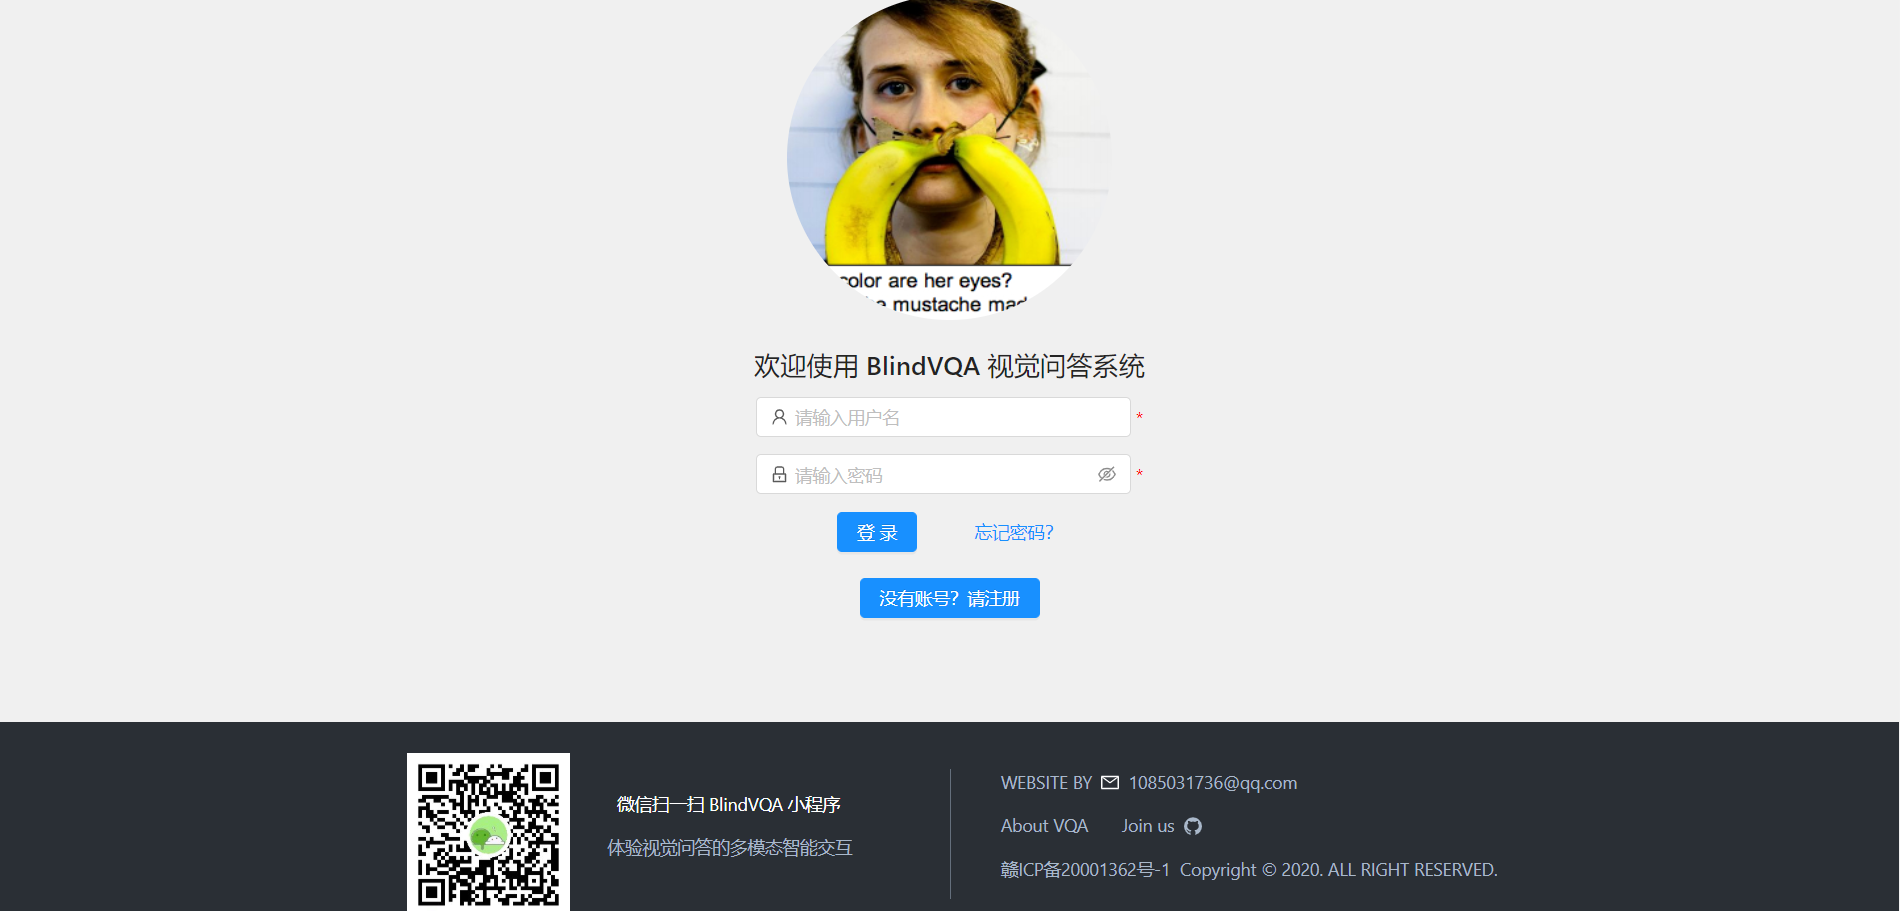
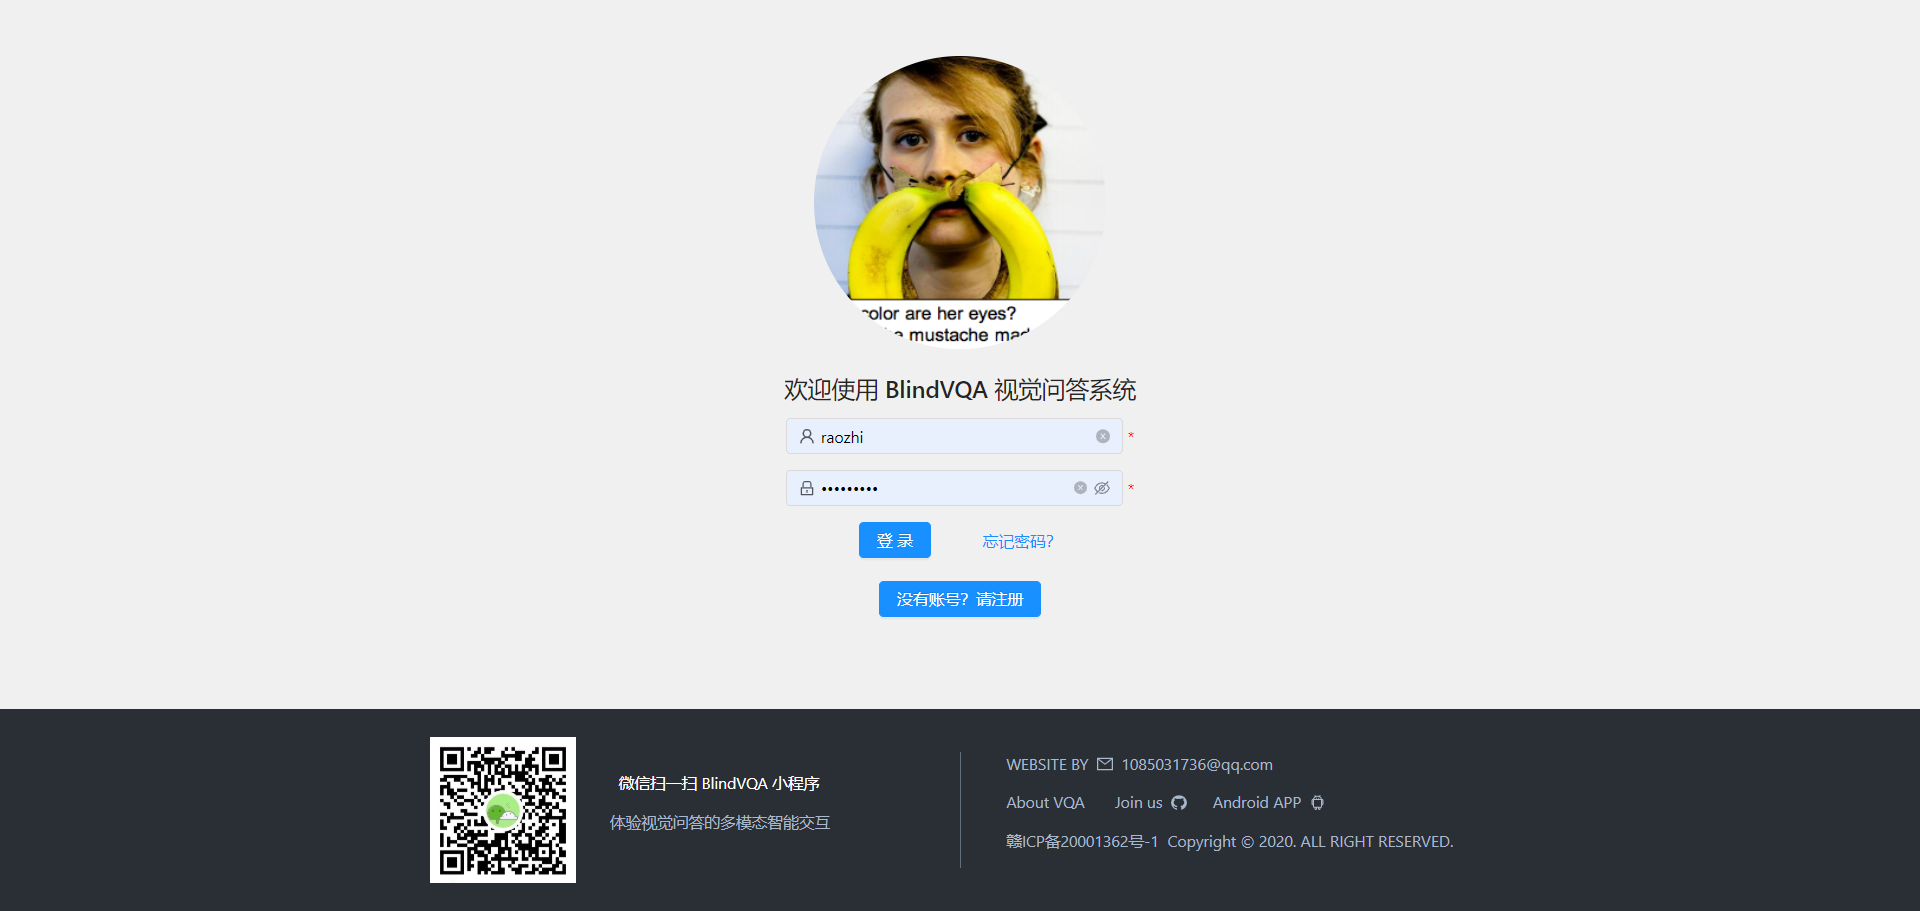
v1.2.1 commit

diff --git a/src/components/foot.jsx b/src/components/foot.jsx
@@ -4,6 +4,7 @@ import {
     FOOTER,
     GITHUB,
     ICP,
+    APP_GITHUB,
     ICP_address,
     VQA
 } from "../constant/constants";
@@ -55,6 +56,18 @@ class LOGINFOOT extends Component{
                                 // style={{color: "#ffffff"}}
                             />
                         </a>
+                        &nbsp;&nbsp;&nbsp;&nbsp;&nbsp;&nbsp;
+                        <a
+                            href={APP_GITHUB}
+                            target="view_window"
+                            className="foot-developer-link"
+                        >
+                            Android APP
+                        </a>&nbsp;&nbsp;
+                        <Icon
+                            type="android"
+                            // style={{color: "#ffffff"}}
+                        />
                     </p>
                     <p>
                         <a

diff --git a/src/assets/scss/components/foot.scss b/src/assets/scss/components/foot.scss
@@ -40,12 +40,15 @@
         padding-left: 40px;
         a {
           color: RGB(169,184,202);
+          &:hover {
+            color: #ffffff;
+          }
         }
       }
       &-link {
-        color: $top-title-text-color;
+        color: RGB(169,184,202);
         &:hover {
-          color: $record-title-text-color;
+          color: #ffffff;
         }
       }
     }
